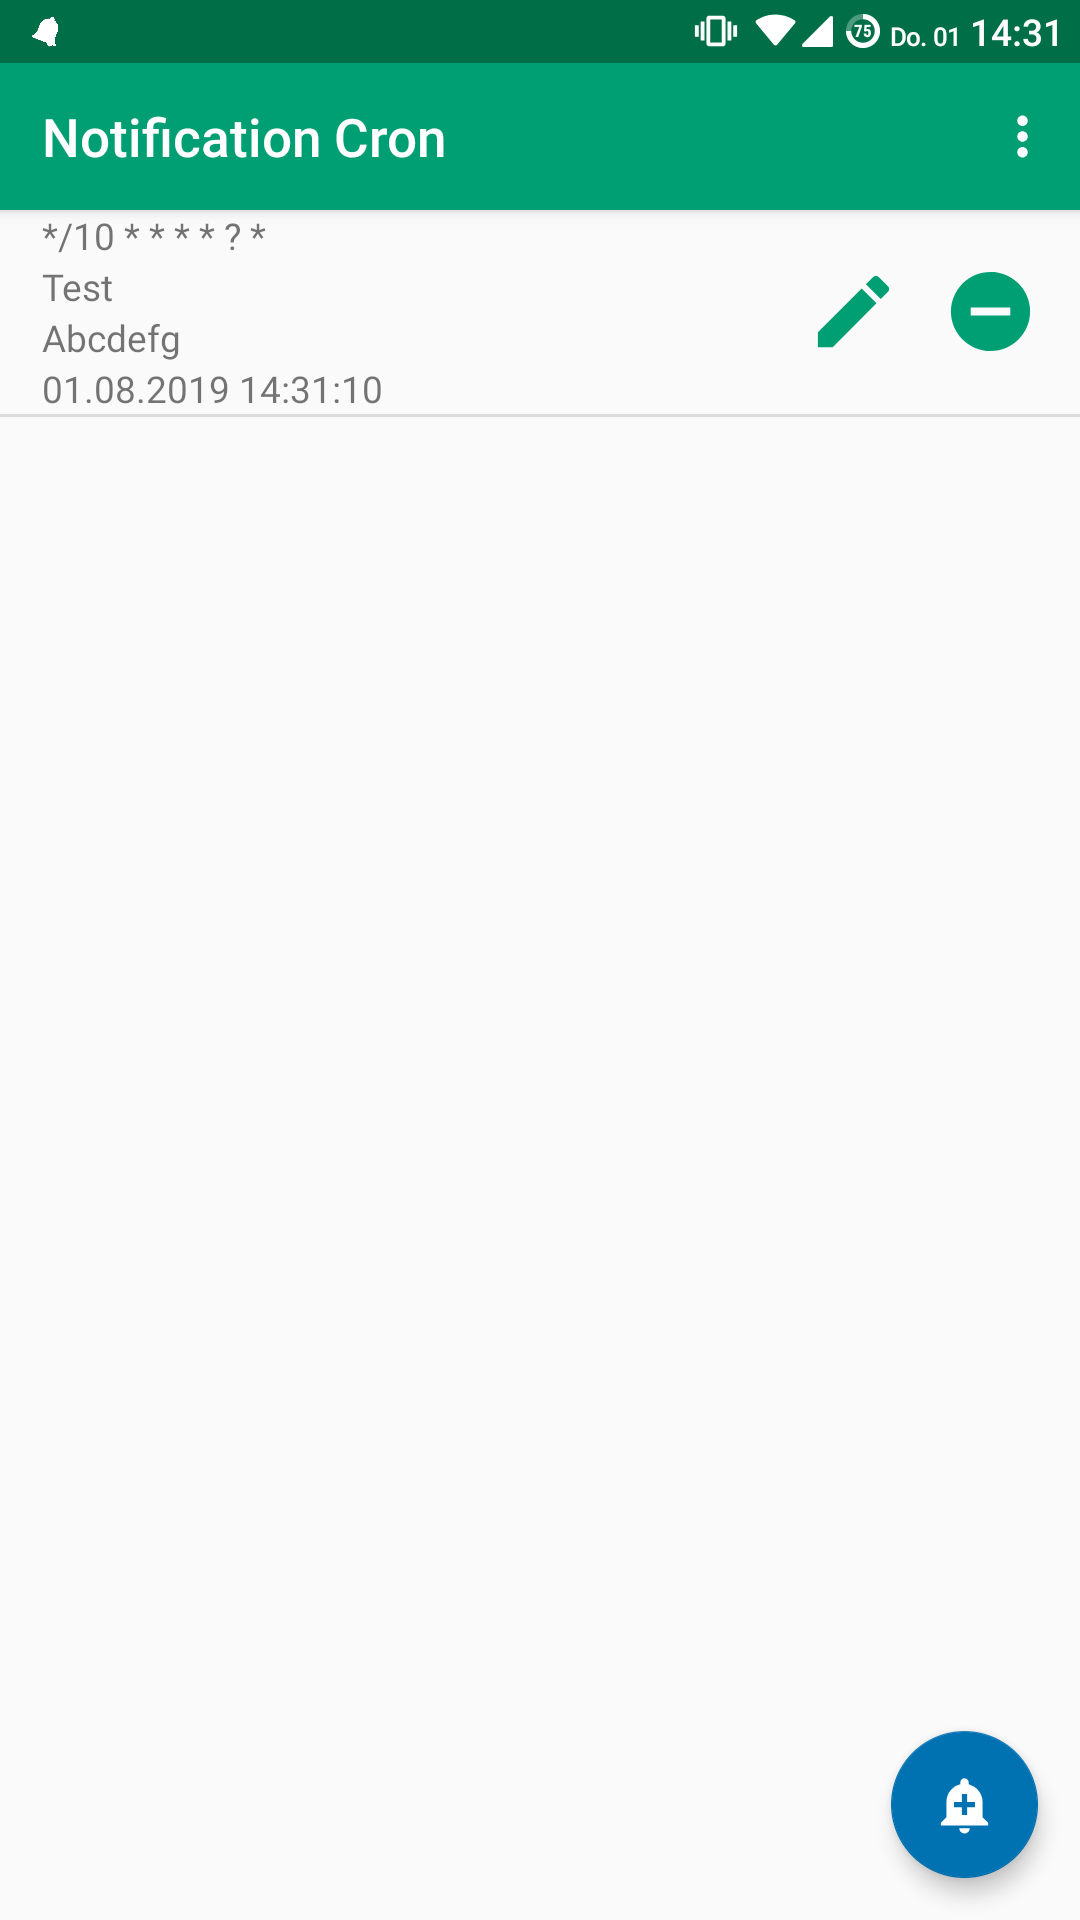
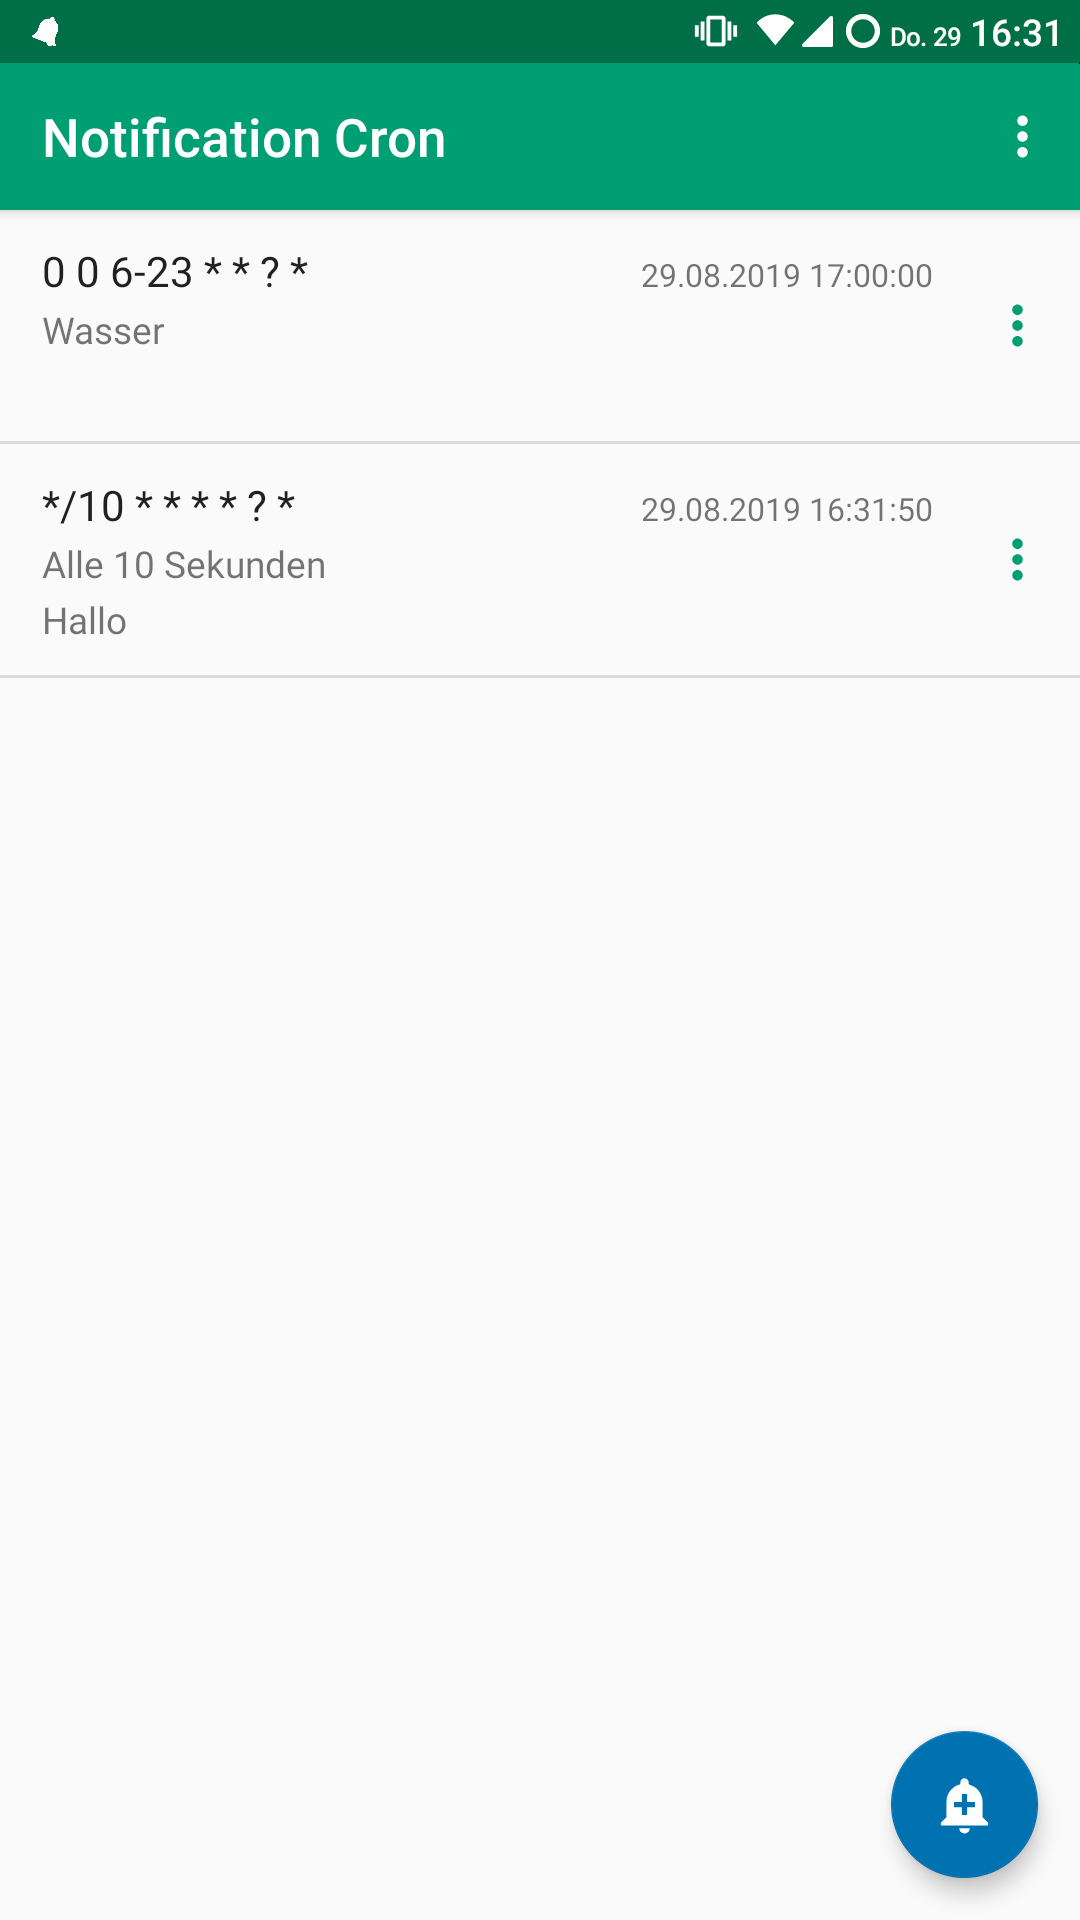
List item design updated

diff --git a/app/src/main/java/com/github/fi3te/notificationcron/ui/NotificationCronAdapter.kt b/app/src/main/java/com/github/fi3te/notificationcron/ui/NotificationCronAdapter.kt
@@ -1,9 +1,8 @@
 package com.github.fi3te.notificationcron.ui
 
-import android.view.LayoutInflater
-import android.view.View
-import android.view.ViewGroup
+import android.view.*
 import android.widget.ImageButton
+import android.widget.PopupMenu
 import android.widget.TextView
 import androidx.recyclerview.widget.RecyclerView
 import com.github.fi3te.notificationcron.R
@@ -18,11 +17,11 @@ class NotificationCronAdapter(private var data: List<NotificationCron>, private 
         val notificationTitleText: TextView = view.findViewById(R.id.notificationTitleText)
         val notificationTextText: TextView = view.findViewById(R.id.notificationTextText)
         val nextNotificationText: TextView = view.findViewById(R.id.nextNotificationText)
-        val editNotificationCronButton: ImageButton = view.findViewById(R.id.editNotificationCronButton)
-        val deleteNotificationCronButton: ImageButton = view.findViewById(R.id.deleteNotificationCronButton)
+        val notificationCronOptionsButton: ImageButton = view.findViewById(R.id.notificationCronOptionsButton)
     }
 
     interface ButtonListener {
+        fun testNotificationCron(notificationCron: NotificationCron)
         fun editNotificationCron(notificationCron: NotificationCron)
         fun deleteNotificationCron(notificationCron: NotificationCron)
     }
@@ -31,13 +30,24 @@ class NotificationCronAdapter(private var data: List<NotificationCron>, private 
         val notificationCronItem = LayoutInflater.from(parent.context)
             .inflate(R.layout.notification_cron_item, parent, false)
         val viewHolder = ViewHolder(notificationCronItem)
-        viewHolder.editNotificationCronButton.setOnClickListener {
+        viewHolder.notificationCronOptionsButton.setOnClickListener {
             val notificationCron = data[viewHolder.adapterPosition]
-            buttonListener.editNotificationCron(notificationCron)
-        }
-        viewHolder.deleteNotificationCronButton.setOnClickListener {
-            val notificationCron = data[viewHolder.adapterPosition]
-            buttonListener.deleteNotificationCron(notificationCron)
+
+            val popup = PopupMenu(it.context, it, Gravity.END)
+
+            popup.menu.add(Menu.NONE, 1, Menu.NONE, R.string.test)
+            popup.menu.add(Menu.NONE, 2, Menu.NONE, R.string.edit)
+            popup.menu.add(Menu.NONE, 3, Menu.NONE, R.string.delete)
+
+            popup.setOnMenuItemClickListener { menuItem ->
+                when (menuItem.itemId) {
+                    1 -> buttonListener.testNotificationCron(notificationCron)
+                    2 -> buttonListener.editNotificationCron(notificationCron)
+                    3 -> buttonListener.deleteNotificationCron(notificationCron)
+                }
+                true
+            }
+            popup.show()
         }
         return viewHolder
     }

diff --git a/app/src/main/java/com/github/fi3te/notificationcron/data/receiver/AlarmReceiver.kt b/app/src/main/java/com/github/fi3te/notificationcron/data/receiver/AlarmReceiver.kt
@@ -4,7 +4,6 @@ import android.app.PendingIntent
 import android.content.BroadcastReceiver
 import android.content.Context
 import android.content.Intent
-import com.github.fi3te.notificationcron.data.TIME_FORMATTER
 import com.github.fi3te.notificationcron.data.local.AppDatabase
 import com.github.fi3te.notificationcron.data.scheduleNextAlarm
 import com.github.fi3te.notificationcron.ui.showNotification
@@ -19,12 +18,7 @@ class AlarmReceiver : BroadcastReceiver() {
                 val notificationCronDao = database.notificationCronDao()
                 Thread(Runnable {
                     val notificationCron = notificationCronDao.findById(notificationCronId)
-
-                    val timePrefix: String = notificationCron.nextNotification?.let {
-                        "${it.format(TIME_FORMATTER)} "
-                    } ?: ""
-
-                    showNotification(context, timePrefix + notificationCron.notificationTitle, notificationCron.notificationText)
+                    showNotification(context, notificationCron)
                     scheduleNextAlarm(context, notificationCronDao, notificationCron)
                 }).start()
             }

diff --git a/app/src/main/java/com/github/fi3te/notificationcron/ui/NotificationService.kt b/app/src/main/java/com/github/fi3te/notificationcron/ui/NotificationService.kt
@@ -7,7 +7,9 @@ import android.content.Context
 import android.os.Build
 import androidx.core.app.NotificationCompat
 import com.github.fi3te.notificationcron.R
+import com.github.fi3te.notificationcron.data.TIME_FORMATTER
 import com.github.fi3te.notificationcron.data.getDayAndTimeString
+import com.github.fi3te.notificationcron.data.model.NotificationCron
 import java.util.concurrent.atomic.AtomicInteger
 
 
@@ -52,4 +54,11 @@ fun showNotification(context: Context, title: String, text: String) {
         context.getSystemService(Context.NOTIFICATION_SERVICE) as NotificationManager
     createNotificationChannel(context, notificationManager)
     notificationManager.notify(newNotificationId(), notification)
+}
+
+fun showNotification(context: Context, notificationCron: NotificationCron) {
+    val timePrefix: String = notificationCron.nextNotification?.let {
+        "${it.format(TIME_FORMATTER)} "
+    } ?: ""
+    showNotification(context, timePrefix + notificationCron.notificationTitle, notificationCron.notificationText)
 }

diff --git a/app/src/main/java/com/github/fi3te/notificationcron/ui/MainActivity.kt b/app/src/main/java/com/github/fi3te/notificationcron/ui/MainActivity.kt
@@ -77,6 +77,10 @@ class MainActivity : AppCompatActivity(), NotificationCronAdapter.ButtonListener
         }
     }
 
+    override fun testNotificationCron(notificationCron: NotificationCron) {
+        showNotification(this, notificationCron)
+    }
+
     override fun editNotificationCron(notificationCron: NotificationCron) {
         showUpdateDialog(this, notificationCron) {
             notificationCronViewModel.update(this, it)
